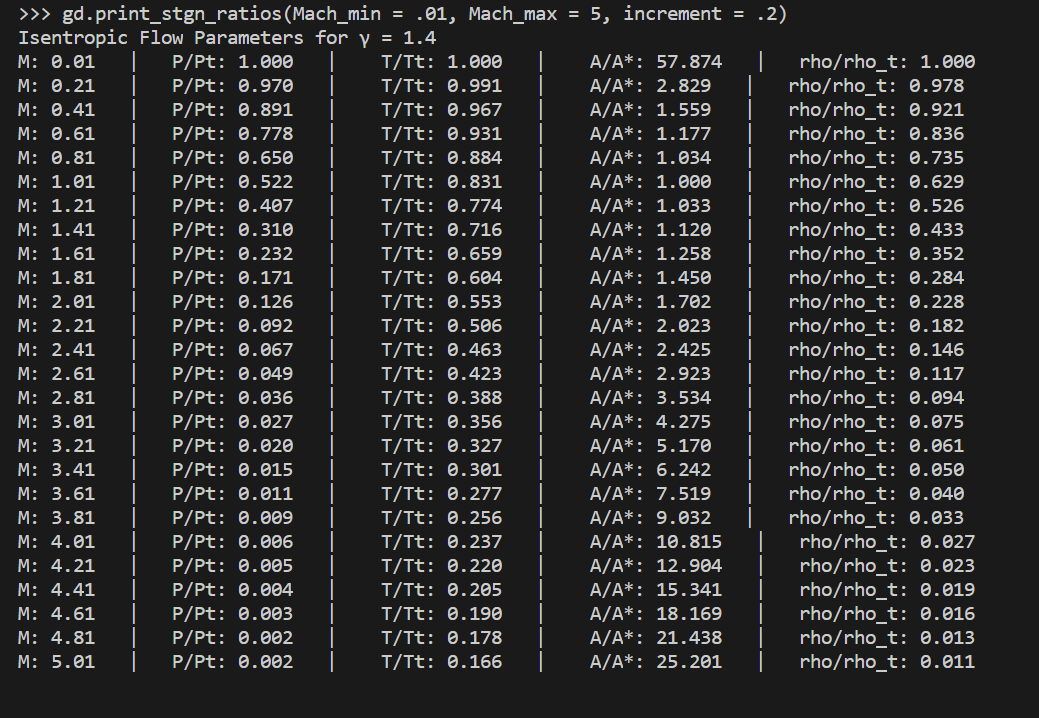
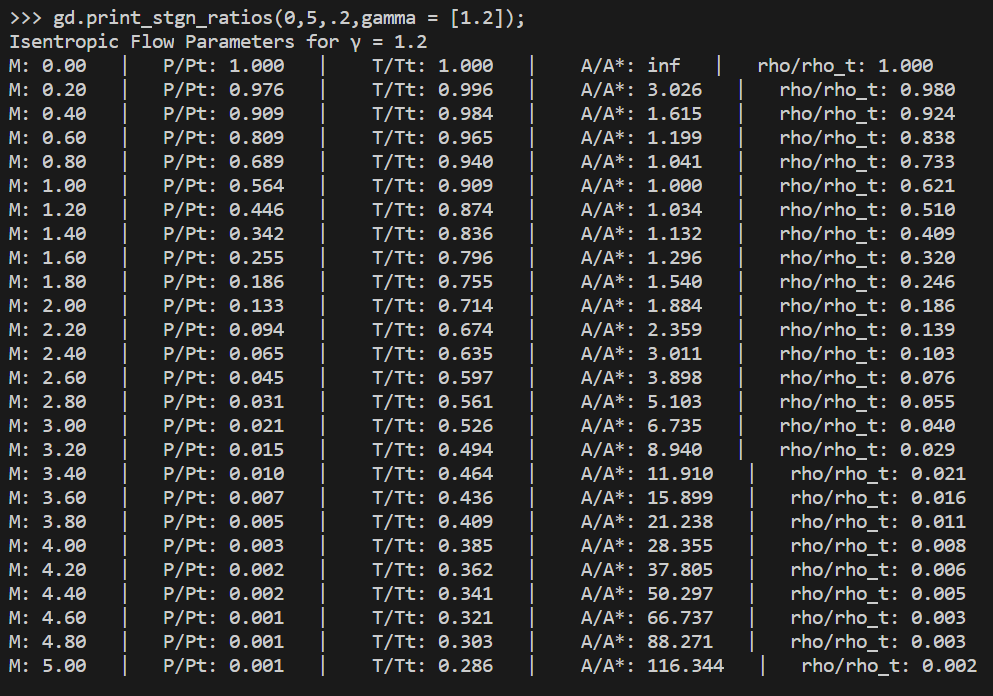
changed default values, added markdown to readme

Changed region(s): [[0.0, 0.0, 0.7492, 0.9655], [0.5619, 0.0603, 0.999, 0.9655]]

diff --git a/gas_dynamics.py b/gas_dynamics.py
@@ -94,7 +94,7 @@ def rho_stgn_ratio(M,gamma = 1.4):
     return rho_t_ratio
 
 
-def plot_stgn_ratios(Mach_min=.1,Mach_max=10,increment=.01,gamma=[1.4]):
+def plot_stgn_ratios(Mach_min=.01,Mach_max=5,increment=.01,gamma=[1.4]):
     """Plot all Mach number vs T/T, P/Pt, A/A*, rho/rho_t, for a given gamma
 
     :param min: min mach number
@@ -151,7 +151,7 @@ def plot_stgn_ratios(Mach_min=.1,Mach_max=10,increment=.01,gamma=[1.4]):
     plt.show()
 
 
-def print_stgn_ratios(Mach_min=.1,Mach_max=10,increment=.1,gamma = [1.4]):
+def print_stgn_ratios(Mach_min=0,Mach_max=5,increment=.1,gamma = [1.4]):
     """Print all Mach number vs T/T, P/Pt, A/A*, rho/rho_t, for a given gamma or list of gammas 
 
     ex: to print several gammas,  

diff --git a/main.py b/main.py
@@ -1,5 +1,5 @@
 import gas_dynamics as gd
 
-#gd.plot_stgn_ratios(.1,5,.1,gamma=[1.2,1.4,1.6,1.8])
+gd.plot_stgn_ratios(gamma = [1.2,1.4,1.6,1.8])
 
-gd.print_stgn_ratios(Mach_min=.1,Mach_max = 5,increment = .1,gamma=[1.2])
+#gd.print_stgn_ratios(Mach_min=.1,Mach_max = 5,increment = .1,gamma=[1.2])

diff --git a/README.md b/README.md
@@ -5,57 +5,34 @@ Getting Isentropic flow tables for a given gamma:
 Arguments are min and max mach numbers, increment, and a list of gammas. Default valules are .01, 5, .1, and 1.4.
 
 ```
-gd.print_stgn_ratios(gamma = [1.2]);
+>>> import gas_dynamics as gd
+>>> gd.print_stgn_ratios(increment = .2, gamma = [1.2]);
 Isentropic Flow Parameters for γ = 1.2
-M: 0.10   |   P/Pt: 0.994   |    T/Tt: 0.999   |    A/A*: 5.953   |   rho/rho_t: 0.995
+M: 0.00   |   P/Pt: 1.000   |    T/Tt: 1.000   |    A/A*: inf   |   rho/rho_t: 1.000
 M: 0.20   |   P/Pt: 0.976   |    T/Tt: 0.996   |    A/A*: 3.026   |   rho/rho_t: 0.980
-M: 0.30   |   P/Pt: 0.948   |    T/Tt: 0.991   |    A/A*: 2.073   |   rho/rho_t: 0.956
 M: 0.40   |   P/Pt: 0.909   |    T/Tt: 0.984   |    A/A*: 1.615   |   rho/rho_t: 0.924
-M: 0.50   |   P/Pt: 0.862   |    T/Tt: 0.976   |    A/A*: 1.356   |   rho/rho_t: 0.884
 M: 0.60   |   P/Pt: 0.809   |    T/Tt: 0.965   |    A/A*: 1.199   |   rho/rho_t: 0.838
-M: 0.70   |   P/Pt: 0.750   |    T/Tt: 0.953   |    A/A*: 1.100   |   rho/rho_t: 0.787
 M: 0.80   |   P/Pt: 0.689   |    T/Tt: 0.940   |    A/A*: 1.041   |   rho/rho_t: 0.733
-M: 0.90   |   P/Pt: 0.627   |    T/Tt: 0.925   |    A/A*: 1.010   |   rho/rho_t: 0.677
 M: 1.00   |   P/Pt: 0.564   |    T/Tt: 0.909   |    A/A*: 1.000   |   rho/rho_t: 0.621
-M: 1.10   |   P/Pt: 0.504   |    T/Tt: 0.892   |    A/A*: 1.009   |   rho/rho_t: 0.565
 M: 1.20   |   P/Pt: 0.446   |    T/Tt: 0.874   |    A/A*: 1.034   |   rho/rho_t: 0.510
-M: 1.30   |   P/Pt: 0.392   |    T/Tt: 0.855   |    A/A*: 1.075   |   rho/rho_t: 0.458
 M: 1.40   |   P/Pt: 0.342   |    T/Tt: 0.836   |    A/A*: 1.132   |   rho/rho_t: 0.409
-M: 1.50   |   P/Pt: 0.296   |    T/Tt: 0.816   |    A/A*: 1.205   |   rho/rho_t: 0.363
 M: 1.60   |   P/Pt: 0.255   |    T/Tt: 0.796   |    A/A*: 1.296   |   rho/rho_t: 0.320
-M: 1.70   |   P/Pt: 0.218   |    T/Tt: 0.776   |    A/A*: 1.407   |   rho/rho_t: 0.281
 M: 1.80   |   P/Pt: 0.186   |    T/Tt: 0.755   |    A/A*: 1.540   |   rho/rho_t: 0.246
-M: 1.90   |   P/Pt: 0.157   |    T/Tt: 0.735   |    A/A*: 1.697   |   rho/rho_t: 0.214
 M: 2.00   |   P/Pt: 0.133   |    T/Tt: 0.714   |    A/A*: 1.884   |   rho/rho_t: 0.186
-M: 2.10   |   P/Pt: 0.112   |    T/Tt: 0.694   |    A/A*: 2.103   |   rho/rho_t: 0.161
 M: 2.20   |   P/Pt: 0.094   |    T/Tt: 0.674   |    A/A*: 2.359   |   rho/rho_t: 0.139
-M: 2.30   |   P/Pt: 0.078   |    T/Tt: 0.654   |    A/A*: 2.660   |   rho/rho_t: 0.120
 M: 2.40   |   P/Pt: 0.065   |    T/Tt: 0.635   |    A/A*: 3.011   |   rho/rho_t: 0.103
-M: 2.50   |   P/Pt: 0.054   |    T/Tt: 0.615   |    A/A*: 3.421   |   rho/rho_t: 0.088
 M: 2.60   |   P/Pt: 0.045   |    T/Tt: 0.597   |    A/A*: 3.898   |   rho/rho_t: 0.076
-M: 2.70   |   P/Pt: 0.037   |    T/Tt: 0.578   |    A/A*: 4.455   |   rho/rho_t: 0.065
 M: 2.80   |   P/Pt: 0.031   |    T/Tt: 0.561   |    A/A*: 5.103   |   rho/rho_t: 0.055
-M: 2.90   |   P/Pt: 0.026   |    T/Tt: 0.543   |    A/A*: 5.858   |   rho/rho_t: 0.047
 M: 3.00   |   P/Pt: 0.021   |    T/Tt: 0.526   |    A/A*: 6.735   |   rho/rho_t: 0.040
-M: 3.10   |   P/Pt: 0.018   |    T/Tt: 0.510   |    A/A*: 7.755   |   rho/rho_t: 0.034
 M: 3.20   |   P/Pt: 0.015   |    T/Tt: 0.494   |    A/A*: 8.940   |   rho/rho_t: 0.029
-M: 3.30   |   P/Pt: 0.012   |    T/Tt: 0.479   |    A/A*: 10.315   |   rho/rho_t: 0.025
 M: 3.40   |   P/Pt: 0.010   |    T/Tt: 0.464   |    A/A*: 11.910   |   rho/rho_t: 0.021
-M: 3.50   |   P/Pt: 0.008   |    T/Tt: 0.449   |    A/A*: 13.759   |   rho/rho_t: 0.018
 M: 3.60   |   P/Pt: 0.007   |    T/Tt: 0.436   |    A/A*: 15.899   |   rho/rho_t: 0.016
-M: 3.70   |   P/Pt: 0.006   |    T/Tt: 0.422   |    A/A*: 18.376   |   rho/rho_t: 0.013
 M: 3.80   |   P/Pt: 0.005   |    T/Tt: 0.409   |    A/A*: 21.238   |   rho/rho_t: 0.011
-M: 3.90   |   P/Pt: 0.004   |    T/Tt: 0.397   |    A/A*: 24.543   |   rho/rho_t: 0.010
 M: 4.00   |   P/Pt: 0.003   |    T/Tt: 0.385   |    A/A*: 28.355   |   rho/rho_t: 0.008
-M: 4.10   |   P/Pt: 0.003   |    T/Tt: 0.373   |    A/A*: 32.748   |   rho/rho_t: 0.007
 M: 4.20   |   P/Pt: 0.002   |    T/Tt: 0.362   |    A/A*: 37.805   |   rho/rho_t: 0.006
-M: 4.30   |   P/Pt: 0.002   |    T/Tt: 0.351   |    A/A*: 43.619   |   rho/rho_t: 0.005
 M: 4.40   |   P/Pt: 0.002   |    T/Tt: 0.341   |    A/A*: 50.297   |   rho/rho_t: 0.005
-M: 4.50   |   P/Pt: 0.001   |    T/Tt: 0.331   |    A/A*: 57.959   |   rho/rho_t: 0.004
 M: 4.60   |   P/Pt: 0.001   |    T/Tt: 0.321   |    A/A*: 66.737   |   rho/rho_t: 0.003
-M: 4.70   |   P/Pt: 0.001   |    T/Tt: 0.312   |    A/A*: 76.785   |   rho/rho_t: 0.003
 M: 4.80   |   P/Pt: 0.001   |    T/Tt: 0.303   |    A/A*: 88.271   |   rho/rho_t: 0.003
-M: 4.90   |   P/Pt: 0.001   |    T/Tt: 0.294   |    A/A*: 101.387   |   rho/rho_t: 0.002
 M: 5.00   |   P/Pt: 0.001   |    T/Tt: 0.286   |    A/A*: 116.344   |   rho/rho_t: 0.002
 ```
 ![Stagnation_relations](https://github.com/fernancode/gas_dynamics/blob/master/print_ratios.png)
